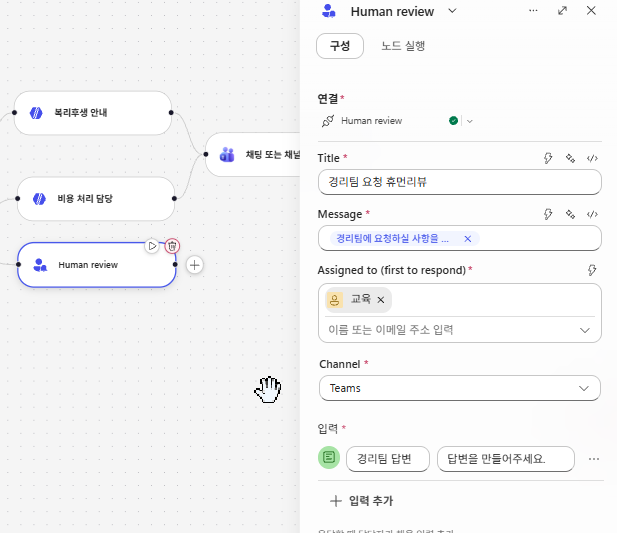
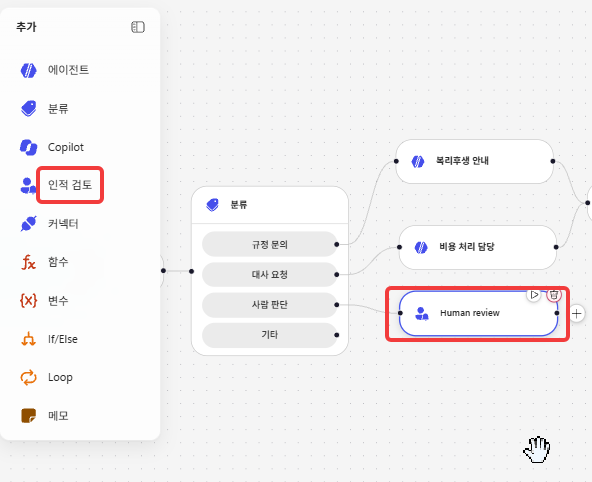
그림 배정을 한 칸 밀고 42번 팁을 뺀다
시험 수행 결과는 찍지 않는다. 42번의 도착 화면 자리를 비우면서 뒤의 그림 넷이 한 칸씩
밀렸다. 43번이 인적 검토 붙이기, 44번이 구성, 45번이 정리 단추, 46번이 잇기와 칩이다.

42번의 팁 둘을 걷어냈다.

diff --git a/docs/lab4.md b/docs/lab4.md
@@ -414,14 +414,6 @@ nav_order: 6
 
 42. 저장하고 다시 게시한 뒤, 23번의 문장을 다시 넣습니다. Teams에 도착하는지 봅니다.
 
-     ![촬영: Teams에 도착한 메시지](../assets/lab4/lab4-42.png)
-
-     {: .note }
-     캔버스에서 걸리지 않은 갈래의 노드는 **건너뜀** 으로 표시됩니다. 자기 요청이 어느 길로 갔는지 실행 기록을 열지 않아도 보입니다.
-
-     {: .note }
-     한 번 도는 데 걸리는 시간은 분류 40초 안팎, 에이전트 30초 안팎, Teams 게시 2초 안팎입니다. 답이 바로 오지 않아도 기다립니다.
-
 ### G. 사람 판단은 인적 검토로 보냅니다
 
 {: start="43" }
